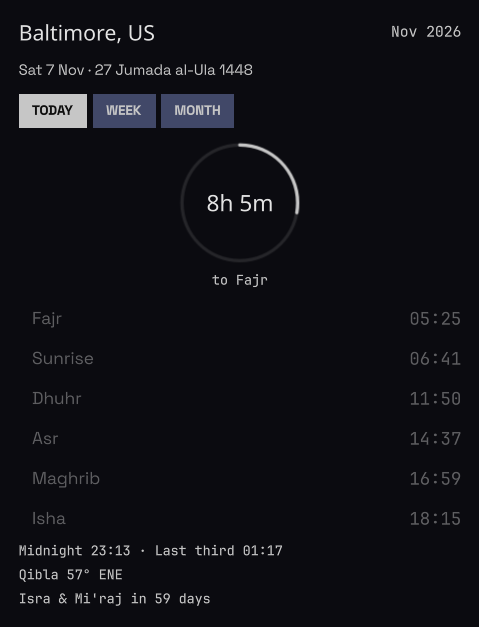
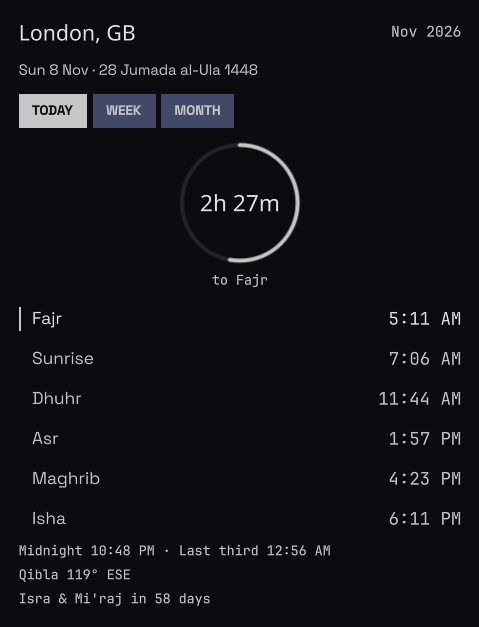
Neutral demo city, 12-hour default, pointer cursor, table polish
- city defaults to auto-detect; fallback preset is no longer a personal city
- fixtures drop the personal-city ground truth
- clock24 defaults to false; tables use compact 5:11a form so six columns still fit
- widget shows a pointing-hand cursor and opens the panel on click
- today's row in the week/month tables gets a tinted band, accent bar and bold date
- table columns keep a right gutter clear of the scroll thumb

diff --git a/content/Panel.qml b/content/Panel.qml
@@ -159,7 +159,7 @@ Item {
                             var cx = width / 2;
                             var cy = height / 2;
                             var radius = (width - 5 * root.s) / 2;
-                            ctx.lineWidth = 2.5 * root.s;
+                            ctx.lineWidth = 3 * root.s;
                             ctx.lineCap = "round";
                             ctx.beginPath();
                             ctx.arc(cx, cy, radius, 0, Math.PI * 2);
@@ -199,9 +199,9 @@ Item {
                         width: parent.width
                         horizontalAlignment: Text.AlignHCenter
                         text: root.service && root.service.nextLabel ? "to " + root.service.nextLabel : ""
-                        color: Theme.faint
+                        color: Theme.dim
                         font.family: Theme.mono
-                        font.pixelSize: 9.5 * root.s
+                        font.pixelSize: 10 * root.s
                     }
                 }
 
@@ -288,7 +288,7 @@ Item {
 
             Row {
                 id: weekHeader
-                width: parent.width
+                width: parent.width - 6 * weekTable.scale
                 height: 20 * weekTable.scale
 
                 Text {
@@ -326,8 +326,19 @@ Item {
                     Rectangle {
                         anchors.fill: parent
                         visible: weekRow.modelData.today
-                        color: Theme.cardTop
+                        color: Theme.accent
+                        opacity: 0.20
                         radius: Theme.radius
+                    }
+
+                    Rectangle {
+                        anchors.left: parent.left
+                        anchors.verticalCenter: parent.verticalCenter
+                        width: 3 * weekTable.scale
+                        height: 13 * weekTable.scale
+                        radius: Theme.radius
+                        visible: weekRow.modelData.today
+                        color: Theme.accent
                     }
 
                     Rectangle {
@@ -348,6 +359,7 @@ Item {
                         color: weekRow.modelData.today ? Theme.bright : Theme.dim
                         font.family: Theme.font
                         font.pixelSize: 10 * weekTable.scale
+                        font.weight: weekRow.modelData.today ? Font.DemiBold : Font.Normal
                         elide: Text.ElideRight
                         maximumLineCount: 1
                     }
@@ -355,7 +367,7 @@ Item {
                     Row {
                         id: weekTimes
                         x: 54 * weekTable.scale
-                        width: parent.width - x
+                        width: parent.width - x - 6 * weekTable.scale
                         height: parent.height
 
                         Repeater {
@@ -397,7 +409,7 @@ Item {
 
                 Row {
                     id: monthHeader
-                    width: parent.width
+                    width: parent.width - 10 * monthTable.scale
                     height: 20 * monthTable.scale
 
                     Text {
@@ -435,8 +447,19 @@ Item {
                         Rectangle {
                             anchors.fill: parent
                             visible: monthRow.modelData.today
-                            color: Theme.cardTop
+                            color: Theme.accent
+                            opacity: 0.20
                             radius: Theme.radius
+                        }
+
+                        Rectangle {
+                            anchors.left: parent.left
+                            anchors.verticalCenter: parent.verticalCenter
+                            width: 3 * monthTable.scale
+                            height: 13 * monthTable.scale
+                            radius: Theme.radius
+                            visible: monthRow.modelData.today
+                            color: Theme.accent
                         }
 
                         Rectangle {
@@ -457,6 +480,7 @@ Item {
                             color: monthRow.modelData.today ? Theme.bright : Theme.dim
                             font.family: Theme.font
                             font.pixelSize: 10 * monthTable.scale
+                            font.weight: monthRow.modelData.today ? Font.DemiBold : Font.Normal
                             elide: Text.ElideRight
                             maximumLineCount: 1
                         }
@@ -464,7 +488,7 @@ Item {
                         Row {
                             id: monthTimes
                             x: 54 * monthTable.scale
-                            width: parent.width - x
+                            width: parent.width - x - 10 * monthTable.scale
                             height: parent.height
 
                             Repeater {

diff --git a/service/Main.qml b/service/Main.qml
@@ -10,7 +10,7 @@ Item {
     id: svc
 
     property var pluginApi
-    property string cityName: "Baltimore, US"
+    property string cityName: ""
     property bool cityEstimated: true
     property var today: ({})
     property var tomorrow: ({})
@@ -81,12 +81,12 @@ Item {
         var hijri = H.toHijri(date.getFullYear(), date.getMonth() + 1, date.getDate(), adjust);
         return {
             day: weekdays[date.getDay()] + " " + date.getDate(),
-            fajr: PT.fmt(values ? values.fajr : null, clock24),
-            sunrise: PT.fmt(values ? values.sunrise : null, clock24),
-            dhuhr: PT.fmt(values ? values.dhuhr : null, clock24),
-            asr: PT.fmt(values ? values.asr : null, clock24),
-            maghrib: PT.fmt(values ? values.maghrib : null, clock24),
-            isha: PT.fmt(values ? values.isha : null, clock24),
+            fajr: PT.fmt(values ? values.fajr : null, clock24, true),
+            sunrise: PT.fmt(values ? values.sunrise : null, clock24, true),
+            dhuhr: PT.fmt(values ? values.dhuhr : null, clock24, true),
+            asr: PT.fmt(values ? values.asr : null, clock24, true),
+            maghrib: PT.fmt(values ? values.maghrib : null, clock24, true),
+            isha: PT.fmt(values ? values.isha : null, clock24, true),
             today: key === todayKey,
             holiday: H.holidayFor(hijri) || ""
         };
@@ -110,9 +110,10 @@ Item {
         currentDayKey = dayKey;
         svc.now = date.getHours() * 60 + date.getMinutes();
 
-        var configuredCity = st.city;
-        var cityId = (configuredCity === undefined && timezoneExact) ? detectedCityId : s("city", "baltimore");
-        var city = C.byId(cityId) || C.byId("baltimore");
+        var configuredCity = s("city", "auto");
+        var autoCity = configuredCity === undefined || configuredCity === "" || configuredCity === "auto";
+        var cityId = autoCity ? detectedCityId : configuredCity;
+        var city = C.byId(cityId) || C.guess("").city;
         svc.cityName = city.name + ", " + city.country;
         svc.cityEstimated = !timezoneExact;
 

diff --git a/lib/praytimes.js b/lib/praytimes.js
@@ -156,14 +156,14 @@ function compassPoint(deg) {
 }
 
 // 12h / 24h formatting of a minutes-from-midnight value.
-function fmt(mins, clock24) {
+function fmt(mins, clock24, compact) {
     if (mins === null || mins === undefined) return "--:--";
     var m = ((Math.round(mins) % 1440) + 1440) % 1440;
     var h = Math.floor(m / 60), mm = m % 60;
     if (clock24) return (h < 10 ? "0" : "") + h + ":" + (mm < 10 ? "0" : "") + mm;
     var ap = h < 12 ? "AM" : "PM";
     var h12 = h % 12; if (h12 === 0) h12 = 12;
-    return h12 + ":" + (mm < 10 ? "0" : "") + mm + " " + ap;
+    return h12 + ":" + (mm < 10 ? "0" : "") + mm + (compact ? (h < 12 ? "a" : "p") : " " + ap);
 }
 
 if (typeof module !== "undefined" && module.exports) {

diff --git a/lib/cities.js b/lib/cities.js
@@ -50,7 +50,7 @@ function byId(id) {
 // a wrong city is worse than an obvious one, so no fuzzy guessing here. When it
 // misses, the caller keeps the fallback and flags the result as estimated so the
 // UI can say "set your city".
-var FALLBACK = "baltimore";
+var FALLBACK = "london";
 
 function guess(tz) {
     if (tz) {

diff --git a/content/Widget.qml b/content/Widget.qml
@@ -94,6 +94,10 @@ Item {
         font.pixelSize: 12
     }
 
+    HoverHandler {
+        cursorShape: Qt.PointingHandCursor
+    }
+
     TapHandler {
         onTapped: if (root.pluginApi) root.pluginApi.togglePanel()
     }

diff --git a/README.md b/README.md
@@ -23,7 +23,7 @@ ryoku plugin add <git-url> --bar --yes
 
 | Key | Type | Default | Description |
 | --- | --- | --- | --- |
-| `city` | choice | `baltimore` | Preset city and its calculation method. |
+| `city` | choice | `auto` | Preset city, or `auto` to detect from the system timezone. |
 | `latitude` | text | `""` | Latitude override; empty uses the city. |
 | `longitude` | text | `""` | Longitude override; empty uses the city. |
 | `method` | choice | `auto` | Calculation method; `auto` uses the city's method. |
